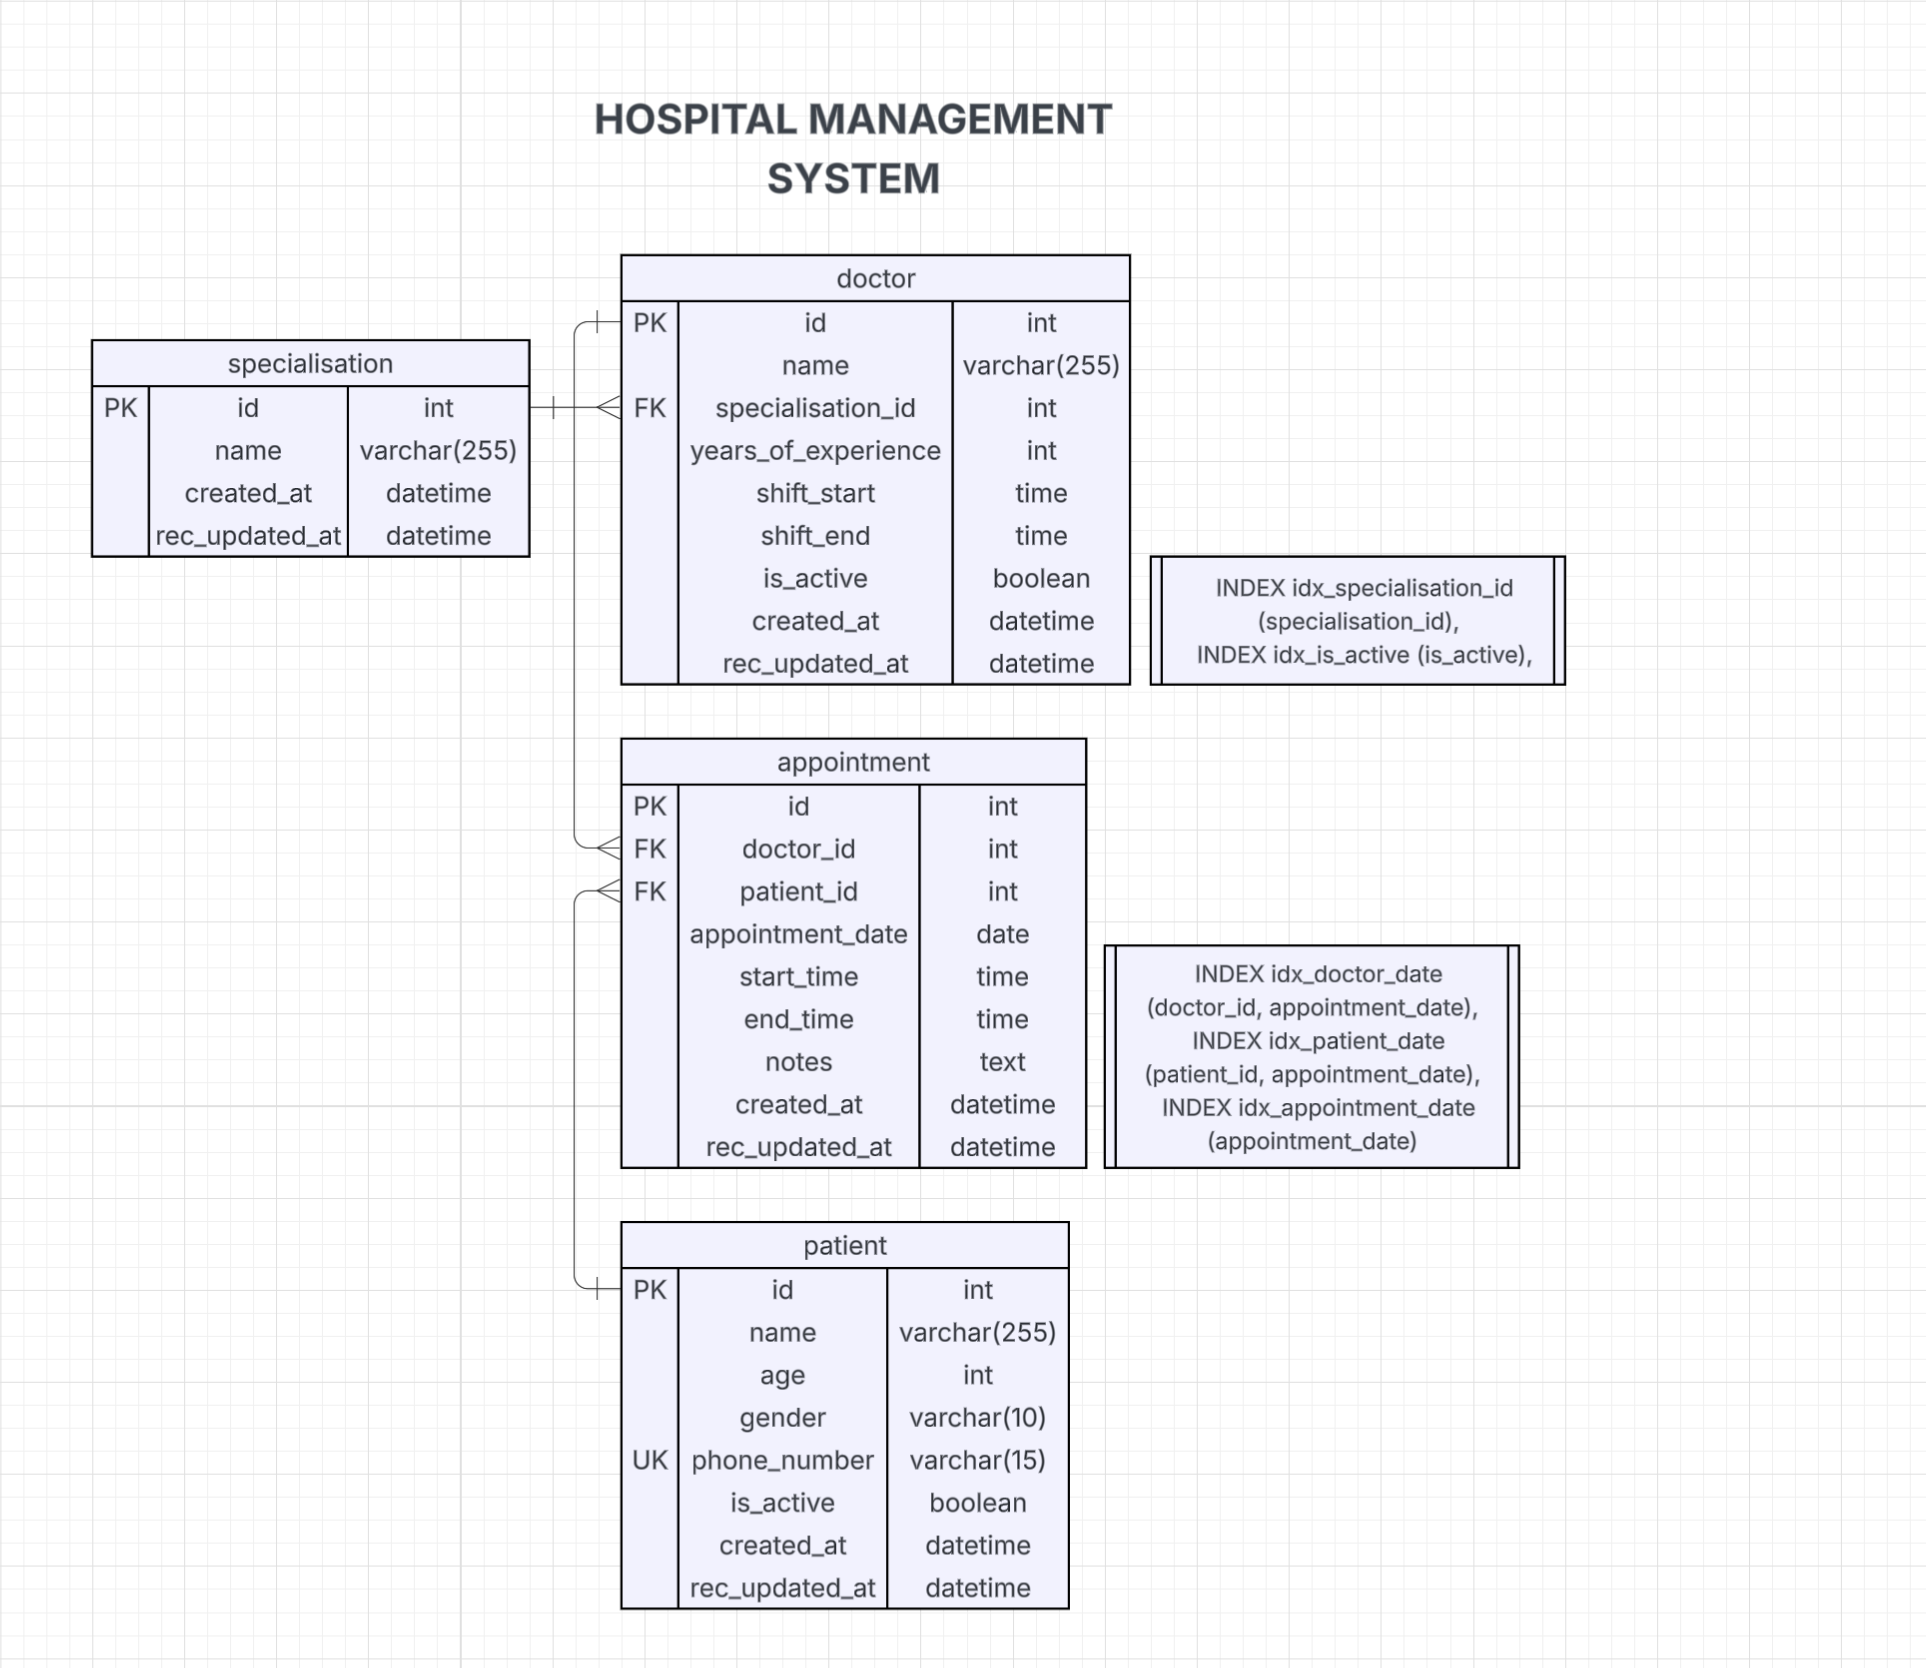
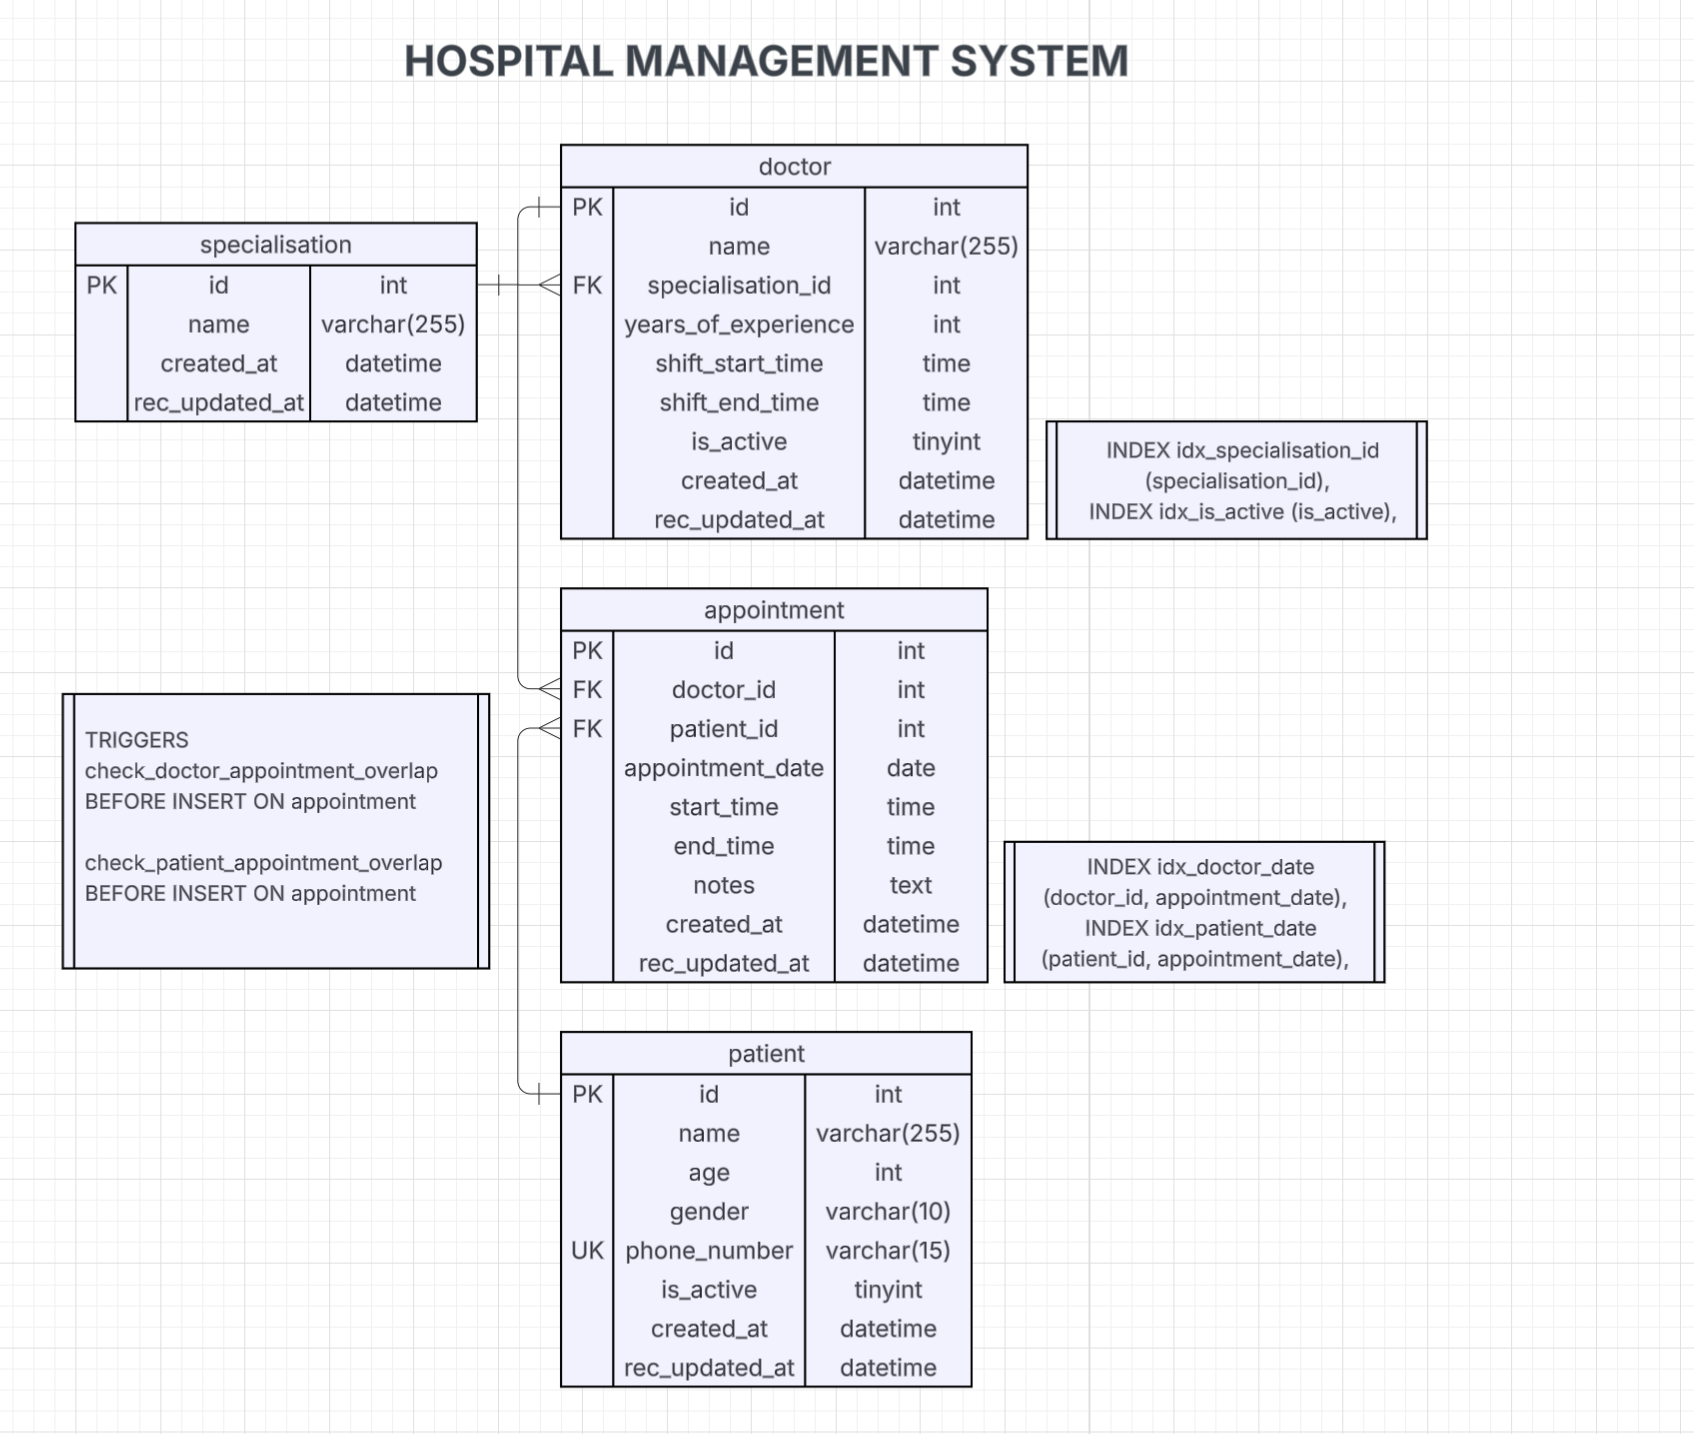
sql queries added, bugs fixed, README updated

Changed region(s): [[0.0307, 0.0307, 0.8595, 0.9819]]

diff --git a/sql/generate/generate_seed_data.js b/sql/generate/generate_seed_data.js
@@ -1,0 +1,1 @@
+// script to generate randomised seed data

diff --git a/src/main/java/HospitalManagementSystem/service/MenuService.java b/src/main/java/HospitalManagementSystem/service/MenuService.java
@@ -9,19 +9,26 @@ public class MenuService {
   SpecialisationService specialisationService;
   AppointmentService appointmentService;
 
+  public MenuService() {
+    patientService = new PatientService();
+    doctorService = new DoctorService();
+    specialisationService = new SpecialisationService();
+    appointmentService = new AppointmentService();
+  }
+
   public void showWelcomeScreen() {
 
     Scanner scanner = new Scanner(System.in);
 
     while(true) {
-      System.out.println("HOSPITAL MANAGEMENT SYSTEM");
+      System.out.println("\nHOSPITAL MANAGEMENT SYSTEM");
 
       System.out.println("Log in as: ");
       System.out.println("1. Admin");
       System.out.println("2. Patient");
-      System.out.println("3. Exit");
+      System.out.println("3. Exit\n");
 
-      int choice = scanner.nextInt();
+      int choice = scanner.nextInt(); scanner.nextLine();
 
       switch(choice) {
         case 1: showAdminMenu();
@@ -29,7 +36,7 @@ public class MenuService {
         case 2: showPatientMenu();
                 break;
         case 3: return;
-        default: System.err.println("Enter a correct choice!");
+        default: System.err.println("Enter a correct choice!\n");
       }
 
     }
@@ -41,7 +48,7 @@ public class MenuService {
     Scanner scanner = new Scanner(System.in);
 
     while(true) {
-      System.out.println("HOSPITAL MANAGEMENT SYSTEM");
+      System.out.println("\nHOSPITAL MANAGEMENT SYSTEM\nHello Admin!\n");
 
       System.out.println("1. Add Patient");
       System.out.println("2. View Patient");
@@ -51,9 +58,9 @@ public class MenuService {
       System.out.println("6. View Doctor");
       System.out.println("7. Edit Doctor");
       System.out.println("8. Remove Doctor");
-      System.out.println("9. Exit");
+      System.out.println("9. Logout\n");
 
-      int choice = scanner.nextInt();
+      int choice = scanner.nextInt(); scanner.nextLine();
 
       switch(choice) {
         case 1: patientService.registerPatient();
@@ -73,7 +80,7 @@ public class MenuService {
         case 8: doctorService.removeDoctor();
                 break;
         case 9: return;
-        default: System.err.println("Enter a correct choice!");
+        default: System.err.println("Enter a correct choice!\n");
       }
 
     }
@@ -85,21 +92,21 @@ public class MenuService {
     Scanner scanner = new Scanner(System.in);
 
     while(true) {
-      System.out.println("HOSPITAL MANAGEMENT SYSTEM");
+      System.out.println("\nHOSPITAL MANAGEMENT SYSTEM\nHello Patient!\n");
 
       System.out.println("1. Register");
       System.out.println("2. View Doctors");
       System.out.println("3. Book Appointment");
       System.out.println("4. Reschedule Appointment");
       System.out.println("5. Cancel Appointment");
-      System.out.println("6. Exit");
+      System.out.println("6. Logout\n");
 
-      int choice = scanner.nextInt();
+      int choice = scanner.nextInt(); scanner.nextLine();
 
       switch(choice) {
         case 1: patientService.registerPatient();
                 break;
-        case 2: int specialisationId = specialisationService.getSpecialisationChoice();
+        case 2: Integer specialisationId = specialisationService.getSpecialisationChoice();
                 doctorService.viewDoctors(specialisationId);
                 break;
         case 3: break;
@@ -107,7 +114,7 @@ public class MenuService {
         case 5: appointmentService.cancelAppointment();
                 break;
         case 6: return;
-        default: System.err.println("Enter a correct choice!");
+        default: System.err.println("Enter a correct choice!\n");
       }
 
     }

diff --git a/src/main/java/HospitalManagementSystem/service/DoctorService.java b/src/main/java/HospitalManagementSystem/service/DoctorService.java
@@ -12,7 +12,16 @@ public class DoctorService {
   DoctorDAOImpl doctorDAOImpl;
   private final Scanner scanner = new Scanner(System.in);
 
+  public DoctorService() {
+    doctorDAOImpl = new DoctorDAOImpl();
+  }
+
   public void viewDoctors(Integer specialisationId) {
+
+    if(Objects.isNull(specialisationId)) {
+      System.err.println("Invalid specialisation id!");
+      return;
+    }
 
     System.out.println("VIEW DOCTORS");
 
@@ -25,11 +34,11 @@ public class DoctorService {
     }
 
     System.out.println("+------+--------------------+--------------------+----------------------+");
-    System.out.println("|  Id  | Name               | Specialisation     | Years of Experience  |");
+    System.out.println("|  Id  | Name               | Specialisation Id  | Years of Experience  |");
     System.out.println("+------+--------------------+--------------------+----------------------+");
 
     for(DoctorDTO doctor : doctors) {
-      System.out.printf("|%-6s|%-20s|%-20s|\n", doctor.getId(), doctor.getName(), doctor.getSpecialisationId(), doctor.getYearsOfExperience());
+      System.out.printf("|2s-%-4s|2s-%-18s|2s-%-18s|2s-%-20s|\n", doctor.getId(), doctor.getName(), doctor.getYearsOfExperience());
       System.out.println("+------+--------------------+--------------------+----------------------+");
     }
 
@@ -40,18 +49,21 @@ public class DoctorService {
     Scanner scanner = new Scanner(System.in);
     System.out.println("ADD NEW DOCTOR");
 
-    System.out.print("Enter name of doctor: ");
-    String name = scanner.next();
-    System.out.print("Enter specialisation id of doctor: ");
+    System.out.print("Enter name: ");
+    String name = scanner.nextLine();
+    System.out.print("Enter specialisation id: ");
     int specialisationId = scanner.nextInt();
-    System.out.print("Enter start shift time of doctor: ");
+    System.out.print("Enter years of experience: ");
+    int yearsOfExperience = scanner.nextInt();
+    System.out.print("Enter shift start time: ");
     String shiftStart = scanner.next();
-    System.out.print("Enter end shift time of doctor: ");
+    System.out.print("Enter shift end time: ");
     String shiftEnd = scanner.next();
 
     DoctorDTO doctor = DoctorDTO.builder()
       .name(name)
       .specialisationId(specialisationId)
+      .yearsOfExperience(yearsOfExperience)
       .shiftStart(shiftStart)
       .shiftEnd(shiftEnd)
       .build();
@@ -100,13 +112,13 @@ public class DoctorService {
 
     System.out.println("Re-enter all details: ");
     System.out.print("Enter name of doctor: ");
-    String name = scanner.next();
+    String name = scanner.nextLine();
     System.out.print("Enter specialisation id: ");
     int specialisationId = scanner.nextInt();
     System.out.print("Enter years of experience: ");
     int yearsOfExperience = scanner.nextInt();
     System.out.print("Enter isActive: ");
-    boolean isActive = scanner.nextBoolean();
+    Integer isActive = scanner.nextInt();
     System.out.print("Enter shift start time: ");
     String shiftStart = scanner.next();
     System.out.print("Enter shift end time: ");

diff --git a/src/main/java/HospitalManagementSystem/service/PatientService.java b/src/main/java/HospitalManagementSystem/service/PatientService.java
@@ -11,12 +11,16 @@ public class PatientService {
   PatientDAOImpl patientDAOImpl;
   private final Scanner scanner = new Scanner(System.in);
 
+  public PatientService() {
+    patientDAOImpl = new PatientDAOImpl();
+  }
+
   public void registerPatient() {
 
     System.out.println("ADD NEW PATIENT");
 
     System.out.print("Enter name of patient: ");
-    String name = scanner.next();
+    String name = scanner.nextLine();
     System.out.print("Enter age of patient: ");
     int age = scanner.nextInt();
     System.out.print("Enter gender of patient: ");
@@ -40,7 +44,7 @@ public class PatientService {
     System.out.println("VIEW PATIENT");
 
     System.out.print("Enter patient id: ");
-    int id = scanner.nextInt();
+    int id = scanner.nextInt(); scanner.nextLine();
 
     PatientDTO patient = patientDAOImpl
       .getPatientById(id)
@@ -60,7 +64,7 @@ public class PatientService {
     System.out.println("EDIT PATIENT");
 
     System.out.print("Enter patient id: ");
-    int id = scanner.nextInt();
+    int id = scanner.nextInt(); scanner.nextLine();
 
     PatientDTO patient = patientDAOImpl
       .getPatientById(id)
@@ -75,7 +79,7 @@ public class PatientService {
 
     System.out.println("Re-enter all details: ");
     System.out.print("Enter name of patient: ");
-    String name = scanner.next();
+    String name = scanner.nextLine();
     System.out.print("Enter age of patient: ");
     int age = scanner.nextInt();
     System.out.print("Enter gender of patient: ");
@@ -83,7 +87,7 @@ public class PatientService {
     System.out.print("Enter phone number: ");
     String phoneNumber = scanner.next();
     System.out.print("Enter isActive: ");
-    boolean isActive = scanner.nextBoolean();
+    Integer isActive = scanner.nextInt();
 
     PatientDTO updatedPatient = PatientDTO.builder()
       .id(patient.getId())
@@ -104,7 +108,7 @@ public class PatientService {
     System.out.println("REMOVE PATIENT");
 
     System.out.print("Enter patient id: ");
-    int id = scanner.nextInt();
+    int id = scanner.nextInt(); scanner.nextLine();
 
     patientDAOImpl.deactivatePatient(id);
 

diff --git a/src/main/java/HospitalManagementSystem/repository/mapper/DoctorMapper.java b/src/main/java/HospitalManagementSystem/repository/mapper/DoctorMapper.java
@@ -14,7 +14,7 @@ public class DoctorMapper {
 
     try {
 
-      if (resultSet == null || resultSet.isClosed()) {
+      if (resultSet == null || resultSet.isClosed() || !resultSet.next()) {
         return Optional.empty();
       }
 
@@ -23,8 +23,11 @@ public class DoctorMapper {
         .name(resultSet.getString("name"))
         .specialisationId(resultSet.getInt("specialisation_id"))
         .yearsOfExperience(resultSet.getInt("years_of_experience"))
-        .shiftStart(resultSet.getString("shift_start"))
-        .shiftEnd(resultSet.getString("shift_end"))
+        .shiftStart(resultSet.getString("shift_start_time"))
+        .shiftEnd(resultSet.getString("shift_end_time"))
+        .isActive(resultSet.getInt("is_active"))
+        .createdAt(resultSet.getString("created_at"))
+        .recUpdatedAt(resultSet.getString("rec_updated_at"))
         .build();
 
       return Optional.of(doctor);
@@ -53,8 +56,11 @@ public class DoctorMapper {
           .name(resultSet.getString("name"))
           .specialisationId(resultSet.getInt("specialisation_id"))
           .yearsOfExperience(resultSet.getInt("years_of_experience"))
-          .shiftStart(resultSet.getString("shift_start"))
-          .shiftEnd(resultSet.getString("shift_end"))
+          .shiftStart(resultSet.getString("shift_start_time"))
+          .shiftEnd(resultSet.getString("shift_end_time"))
+          .isActive(resultSet.getInt("is_active"))
+          .createdAt(resultSet.getString("created_at"))
+          .recUpdatedAt(resultSet.getString("rec_updated_at"))
           .build());
       }
 

diff --git a/src/main/java/HospitalManagementSystem/repository/query/DoctorQuery.java b/src/main/java/HospitalManagementSystem/repository/query/DoctorQuery.java
@@ -1,10 +1,10 @@
 package main.java.HospitalManagementSystem.repository.query;
 
 public class DoctorQuery {
-  public static final String INSERT_DOCTOR = "INSERT INTO doctor (name, specialisation_id, years_of_experience, is_active, shift_start, shift_end) VALUES (?, ?, ?, 1, ?, ?)";
+  public static final String INSERT_DOCTOR = "INSERT INTO doctor (name, specialisation_id, years_of_experience, is_active, shift_start_time, shift_end_time) VALUES (?, ?, ?, 1, ?, ?)";
   public static final String GET_ALL_DOCTORS = "SELECT * FROM doctor";
   public static final String GET_DOCTOR_BY_ID = "SELECT * from doctor where id = ?";
-  public static final String GET_DOCTOR_BY_SPECIALISATION = "SELECT * FROM doctor INNER JOIN specialisation WHERE doctor.specialisation_id = specialisation.id AND specialisation = ? AND is_active = 1";
+  public static final String GET_DOCTOR_BY_SPECIALISATION = "SELECT * FROM doctor INNER JOIN specialisation WHERE doctor.specialisation_id = specialisation.id AND specialisation_id = ? AND is_active = 1";
   public static final String UPDATE_DOCTOR = "UPDATE <<update_attributes>> WHERE id = ?";
-  public static final String DEACTIVATE_DOCTOR = "UPDATE doctor SET isActive = 0 WHERE id = ?";
+  public static final String DEACTIVATE_DOCTOR = "UPDATE doctor SET is_active = 0 WHERE id = ?";
 }

diff --git a/src/main/java/HospitalManagementSystem/repository/mapper/PatientMapper.java b/src/main/java/HospitalManagementSystem/repository/mapper/PatientMapper.java
@@ -14,7 +14,7 @@ public class PatientMapper {
 
     try {
 
-      if (resultSet == null || resultSet.isClosed()) {
+      if (resultSet == null || resultSet.isClosed() || !resultSet.next()) {
         return Optional.empty();
       }
 
@@ -24,6 +24,9 @@ public class PatientMapper {
         .age(resultSet.getInt("age"))
         .gender(resultSet.getString("gender"))
         .phoneNumber(resultSet.getString("phone_number"))
+        .isActive(resultSet.getInt("is_active"))
+        .createdAt(resultSet.getString("created_at"))
+        .recUpdatedAt(resultSet.getString("rec_updated_at"))
         .build();
 
       return Optional.of(patient);
@@ -53,6 +56,9 @@ public class PatientMapper {
           .age(resultSet.getInt("age"))
           .gender(resultSet.getString("gender"))
           .phoneNumber(resultSet.getString("phone_number"))
+          .isActive(resultSet.getInt("is_active"))
+          .createdAt(resultSet.getString("created_at"))
+          .recUpdatedAt(resultSet.getString("rec_updated_at"))
           .build());
       }
 

diff --git a/src/main/java/HospitalManagementSystem/service/SpecialisationService.java b/src/main/java/HospitalManagementSystem/service/SpecialisationService.java
@@ -11,6 +11,10 @@ public class SpecialisationService {
   SpecialisationDAOImpl specialisationDAOImpl;
   private final Scanner scanner = new Scanner(System.in);
 
+  public SpecialisationService() {
+    specialisationDAOImpl = new SpecialisationDAOImpl();
+  }
+
   public Integer getSpecialisationChoice() {
 
     List<SpecialisationDTO> specialisationList = specialisationDAOImpl
@@ -28,7 +32,7 @@ public class SpecialisationService {
     System.out.println("Enter a specialisation id: ");
     int specialisationChoice = scanner.nextInt();
 
-    if(specialisationChoice < 0 || specialisationChoice < specialisationList.size()) {
+    if(specialisationChoice <= 0 || specialisationChoice > specialisationList.size()) {
       return null;
     }
 

diff --git a/src/main/java/HospitalManagementSystem/repository/query/PatientQuery.java b/src/main/java/HospitalManagementSystem/repository/query/PatientQuery.java
@@ -5,5 +5,5 @@ public class PatientQuery {
   public static final String GET_ALL_PATIENTS = "SELECT * FROM patient";
   public static final String GET_PATIENT_BY_ID = "SELECT * FROM patient WHERE id = ?";
   public static final String UPDATE_PATIENT = "UPDATE patient SET name = ?, age = ?, gender = ?, phone_number = ?, is_active = ? WHERE id = ?";
-  public static final String DEACTIVATE_PATIENT = "UPDATE patient set isActive = 0 WHERE id = ?";
+  public static final String DEACTIVATE_PATIENT = "UPDATE patient set is_active = 0 WHERE id = ?";
 }

diff --git a/src/main/java/HospitalManagementSystem/repository/implementation/PatientDAOImpl.java b/src/main/java/HospitalManagementSystem/repository/implementation/PatientDAOImpl.java
@@ -100,7 +100,7 @@ public class PatientDAOImpl {
       preparedStatement.setInt(2, updatedPatient.getAge());
       preparedStatement.setString(3, updatedPatient.getGender());
       preparedStatement.setString(4, updatedPatient.getPhoneNumber());
-      preparedStatement.setBoolean(5, updatedPatient.getIsActive());
+      preparedStatement.setInt(5, updatedPatient.getIsActive());
       preparedStatement.setInt(6, updatedPatient.getId());
 
       int updatedRows = preparedStatement.executeUpdate();

diff --git a/src/main/java/HospitalManagementSystem/config/DatabaseConfig.java b/src/main/java/HospitalManagementSystem/config/DatabaseConfig.java
@@ -14,7 +14,7 @@ public class DatabaseConfig {
   private String password;
 
   public DatabaseConfig() {
-    try (FileInputStream input = new FileInputStream("resources/config.properties")) {
+    try (FileInputStream input = new FileInputStream("src/main/resources/config.properties")) {
       Properties properties = new Properties();
       properties.load(input);
 

diff --git a/src/main/java/HospitalManagementSystem/Patient.java b/src/main/java/HospitalManagementSystem/Patient.java
@@ -17,7 +17,7 @@ public class Patient {
 
   public void addPatient() {
     System.out.print("Enter name of patient: ");
-    String name = scanner.next();
+    String name = scanner.nextLine();
     System.out.print("Enter age of patient: ");
     int age = scanner.nextInt();
     System.out.print("Enter gender of patient: ");
